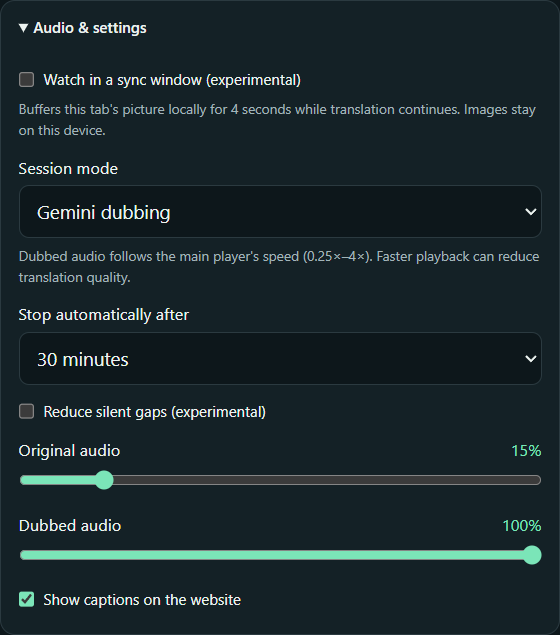
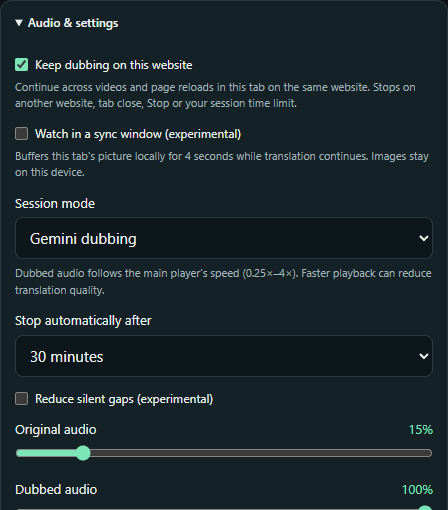
docs: refresh Audivoya 0.2.15 guide and setup captures (#11)

diff --git a/docs/VALIDATION.md b/docs/VALIDATION.md
@@ -1,5 +1,13 @@
 # Website validation
 
+## Audivoya 0.2.15 release guide (October 4, 2026)
+
+Updated the guide for Fullscreen / Exit fullscreen, external native fullscreen state such as F11, restoration of normal/maximized mode, picture fitting above expanded Controls, and bounded audio catch-up. Skipped translated speech and seek-handshake waiting are disclosed without claiming lower provider latency or guaranteed completeness. The versioned privacy/config copy now targets 0.2.15. Public install links remain pending store approval.
+
+Refreshed the setup/panel/settings screenshots from the actual packaged 0.2.15 action popup in a disposable Chromium profile on owned localhost content. No key, provider request, private content or user profile was used. The existing capture helper records the real date and crops to the visible native popup viewport to avoid compositor repetition beyond that viewport. Captions identify the crop and setup-only evidence; image dimensions match the captures. Google's separately attributed public documentation image is unchanged.
+
+Local build/link/CSP/secret checks verify 17 public files; all ten desktop/mobile browser cases pass. Formatting is normalized in this validation record after the initial check exposed a pre-existing formatting discrepancy. GitHub Pages deployment follows protected PR verification and merge. These website checks do not prove translation performance, store acceptance or capture startup stability.
+
 ## Collapsed sync controls and source playback (October 4, 2026, candidate 0.2.14)
 
 The guide describes a collapsed-by-default Controls panel, local play/pause, ten-second skips, playback speeds, volumes and mute. Playback commands affect the current source player immediately; seeking refills the delayed view. The guide preserves the source-tab fallback for inaccessible/custom/embedded players and blocked Play, as well as experimental synchronization limits. No website tracker, remote asset, dependency or credential flow changed. Local build/link/CSP/secret-pattern checks and ten desktop/mobile browser checks pass; public deployment follows protected-branch CI.

diff --git a/README.md b/README.md
@@ -54,4 +54,4 @@ Language facts are versioned in `src/languages.json`, matching the extension’s
 
 ## Credential disclosure refresh (October 4, 2026)
 
-Website source now distinguishes the latest 0.2.11 automatic browser-profile encryption from earlier 0.2.10 session-only behavior. There is no companion/password setup. The encryption key lives in the same profile, so this is not an OS vault or protection against profile takeover. Deploy matching privacy copy before releasing the new extension; source changes alone do not update the public website.
+Website source now distinguishes the current 0.2.15 automatic browser-profile encryption from earlier 0.2.10 session-only behavior. There is no companion/password setup. The encryption key lives in the same profile, so this is not an OS vault or protection against profile takeover. Deploy matching privacy copy before releasing the new extension; source changes alone do not update the public website.
